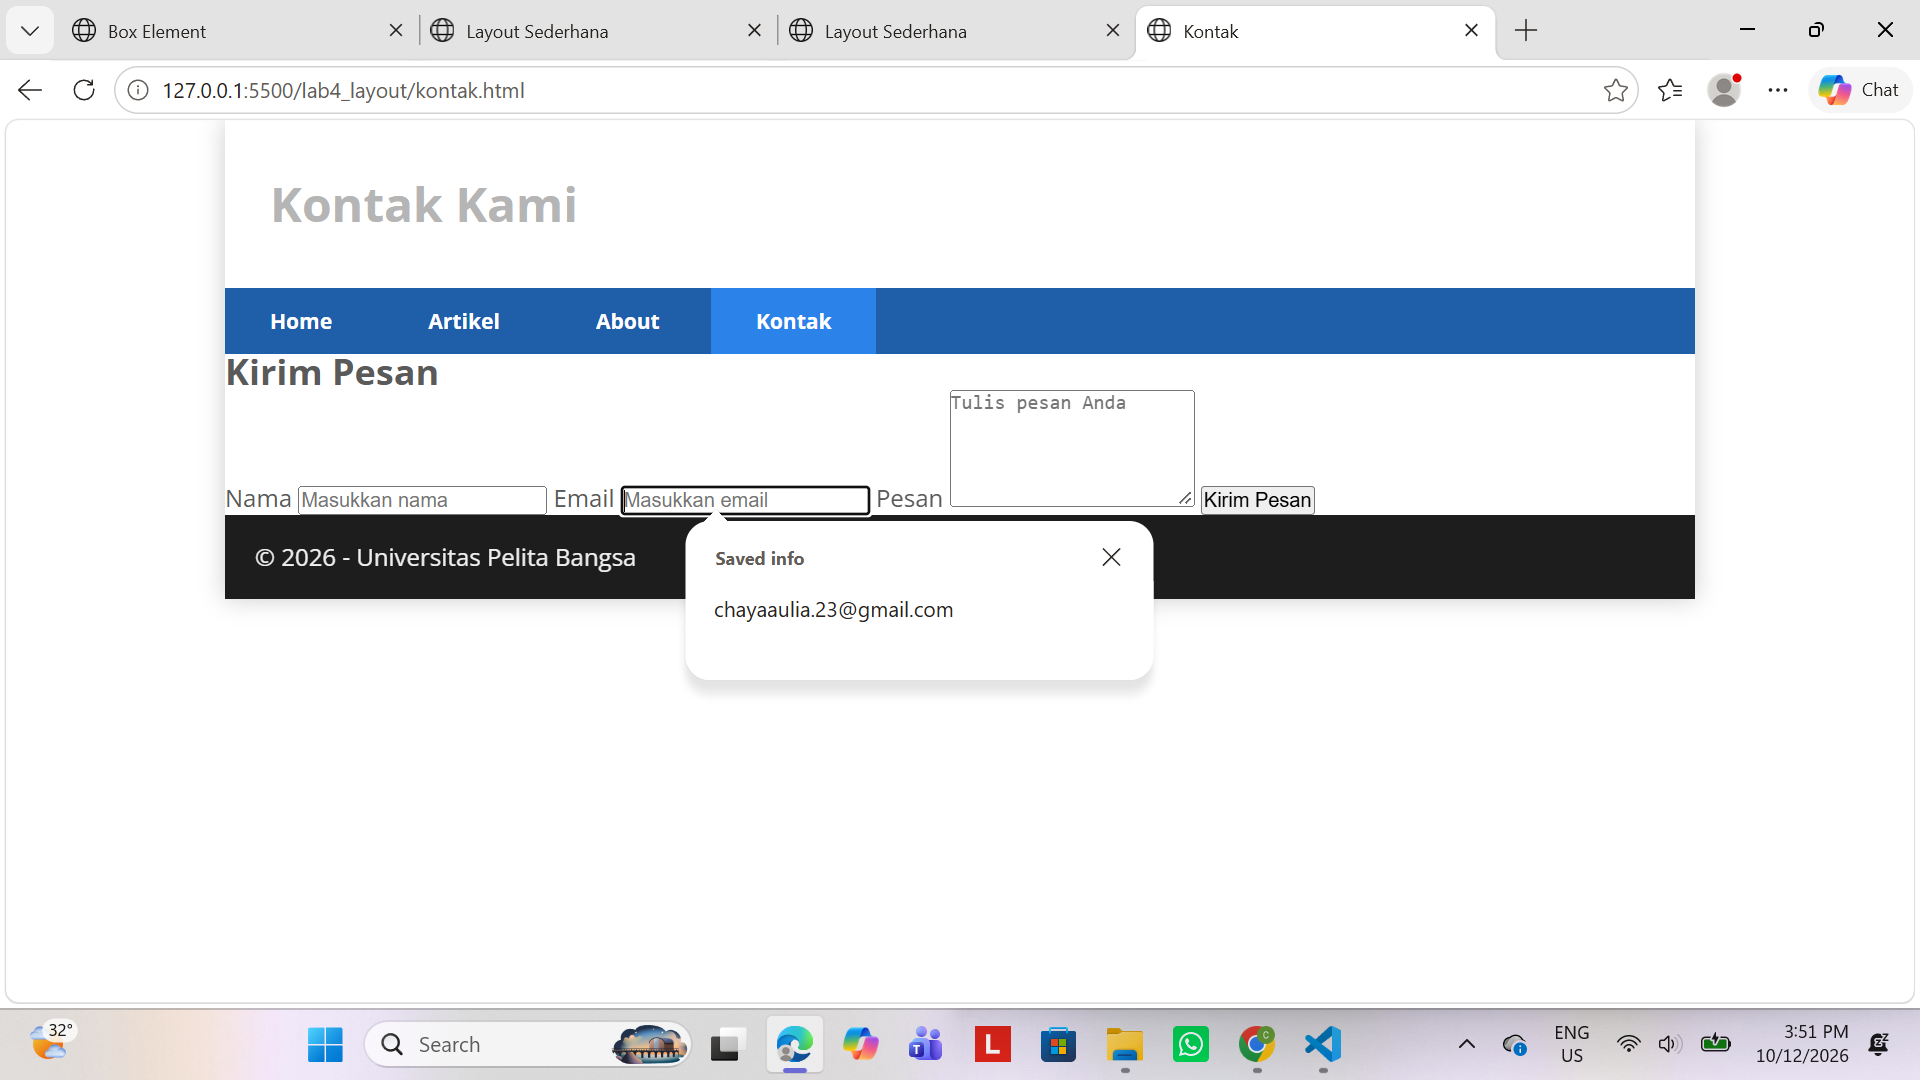
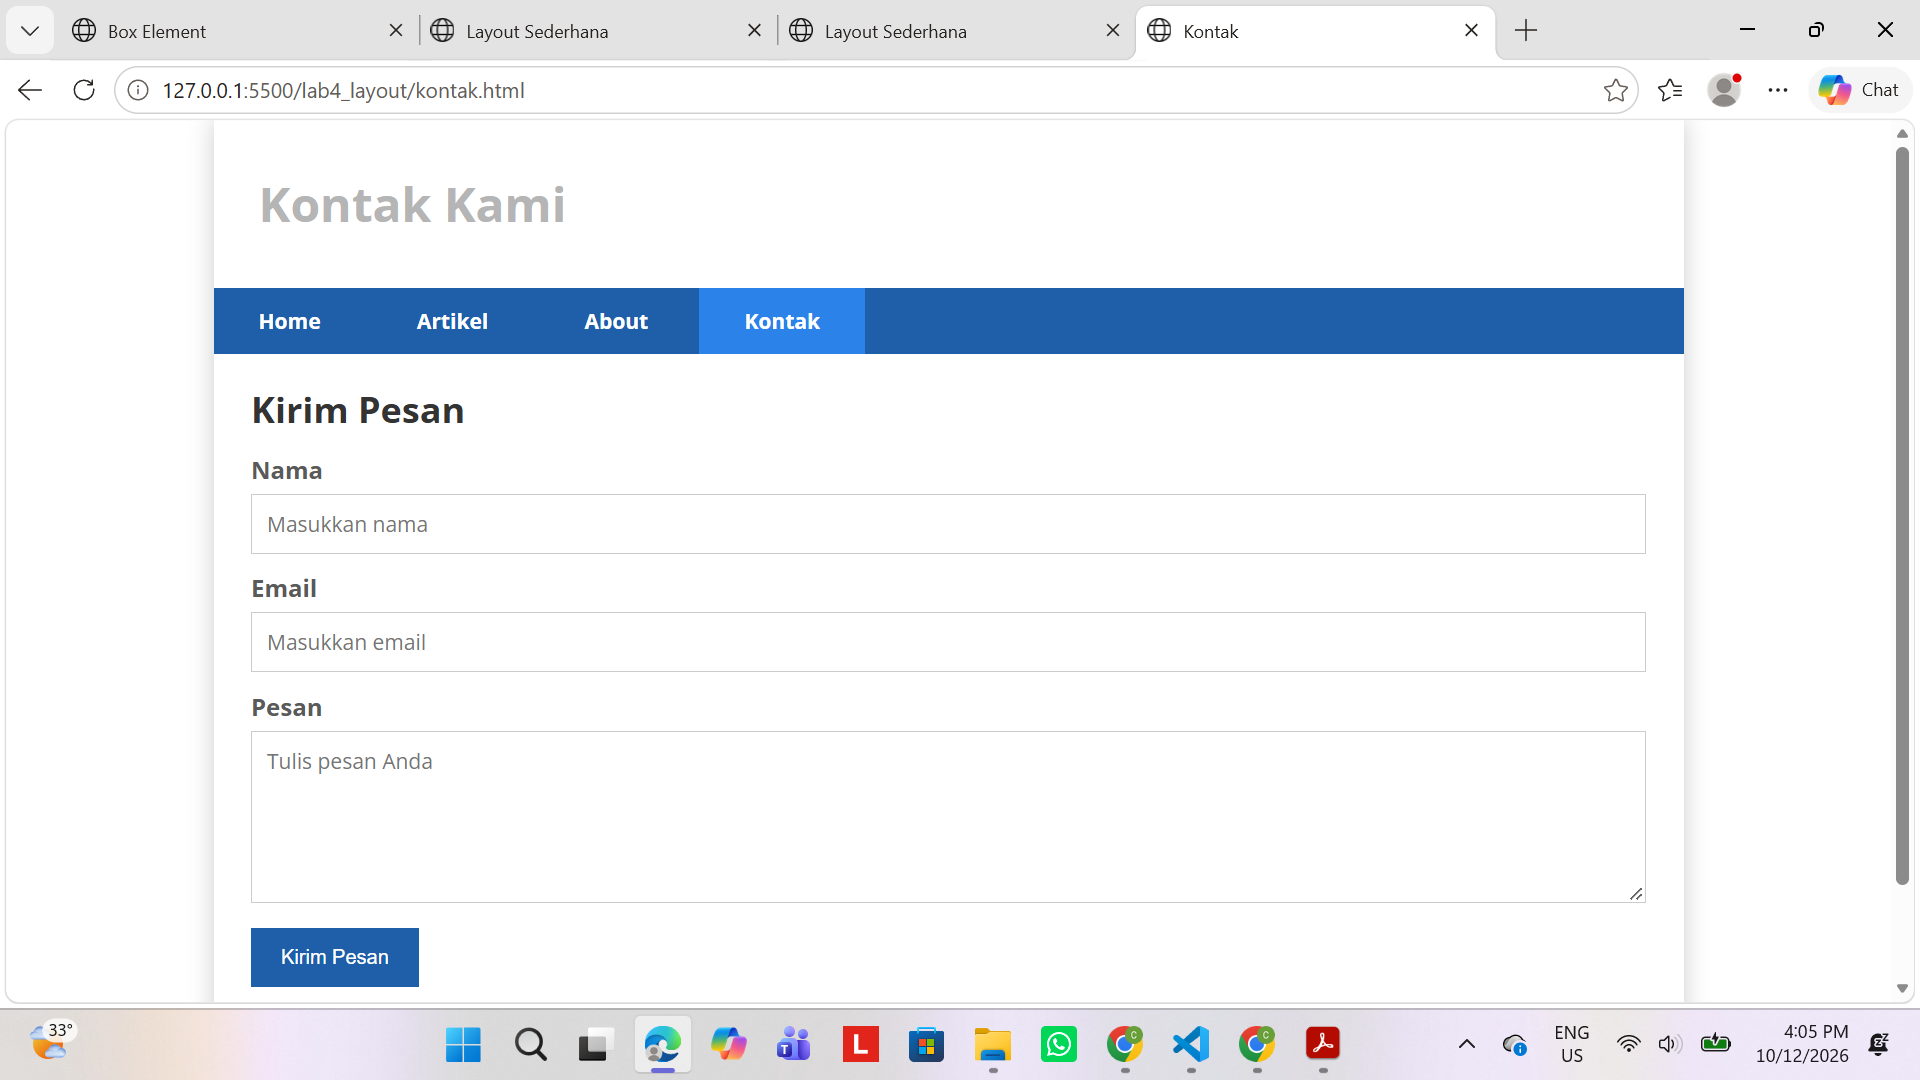
Menambahkan Screenshoot Baru

diff --git a/lab4_layout/style.css b/lab4_layout/style.css
@@ -255,3 +255,47 @@ clear:both;
 .portfolio h3 {
     margin-bottom: 10px;
 }
+
+
+/* Halaman Contact */
+#contact-content {
+    padding: 25px;
+    min-height: 350px;
+}
+
+#contact-content h2 {
+    margin-bottom: 20px;
+    color: #333;
+}
+
+#contact-content label {
+    display: block;
+    margin: 15px 0 8px;
+    font-weight: bold;
+}
+
+#contact-content input,
+#contact-content textarea {
+    width: 100%;
+    padding: 10px;
+    border: 1px solid #ccc;
+    font-family: inherit;
+    font-size: 14px;
+}
+
+#contact-content textarea {
+    resize: vertical;
+}
+
+#contact-content button {
+    margin-top: 15px;
+    padding: 12px 20px;
+    background-color: #1f5faa;
+    color: #fff;
+    border: none;
+    cursor: pointer;
+}
+
+#contact-content button:hover {
+    background-color: #2b83ea;
+}
